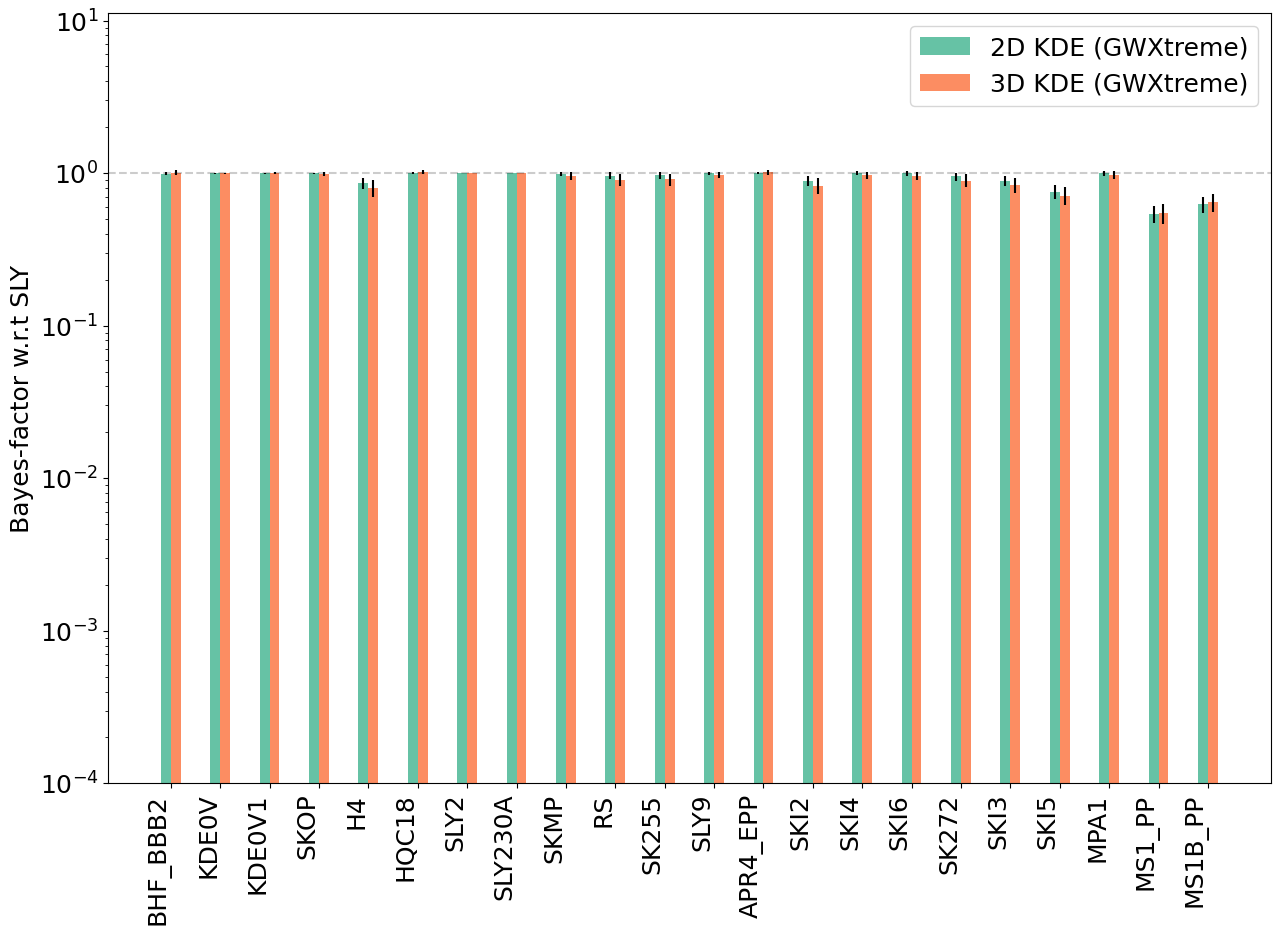
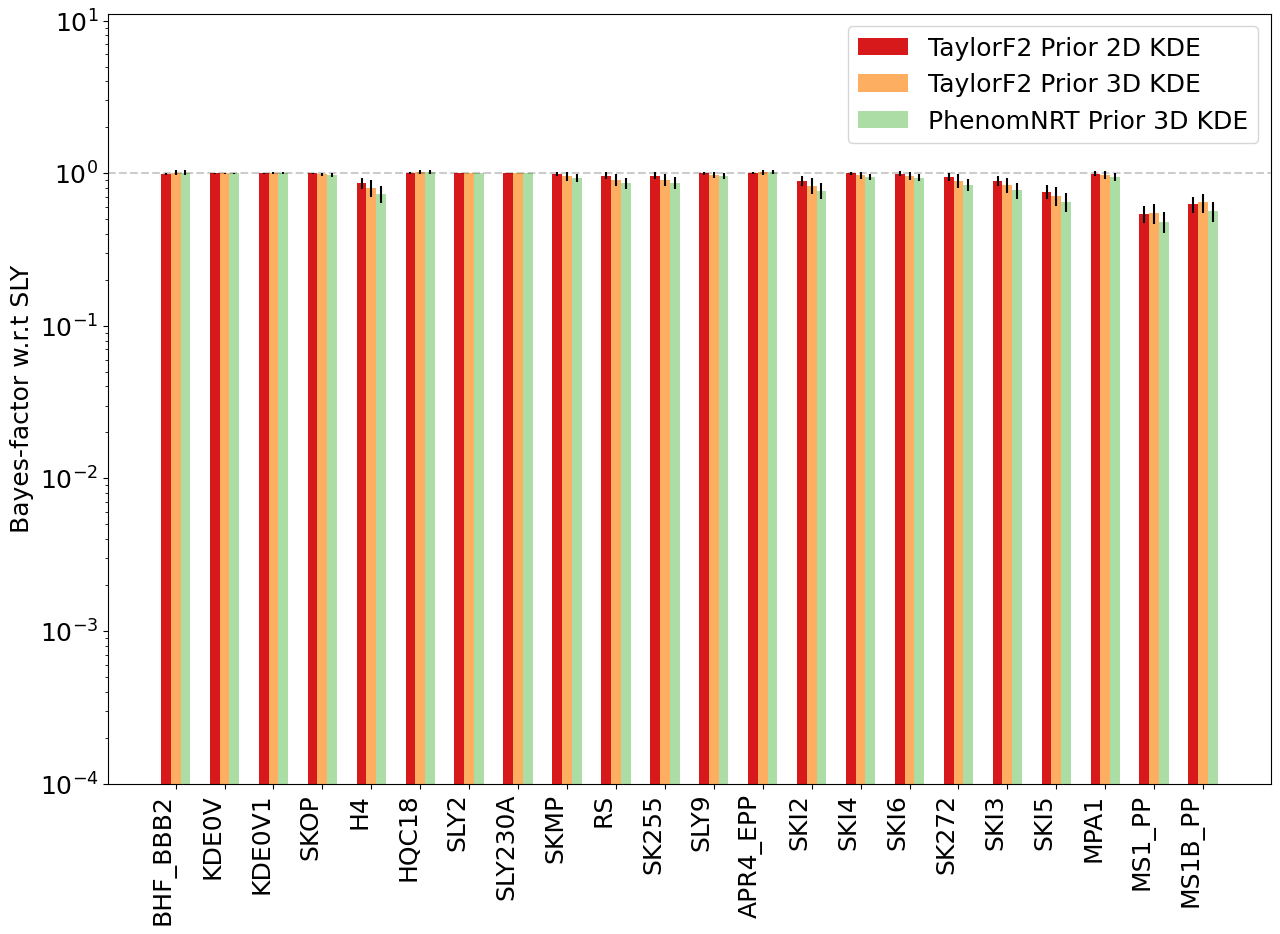
Model selection for simulations is complete.

diff --git a/year3/lastStretch/simulBFs.py b/year3/lastStretch/simulBFs.py
@@ -16,7 +16,6 @@ def singleEventBFs(Trials=1000):
                   "71_1.37_1.33", "55_1.38_1.33", "78_1.35_1.32",
                   "241_1.31_1.28", "220_1.36_1.24", "282_1.35_1.32", "149_1.35_1.23", "237_1.36_1.26", 
                   "138_1.5_1.21", "235_1.4_1.3", "219_1.3_1.28", "260_1.48_1.33", "164_1.34_1.19"]
-    injections = ["282_1.58_1.37"] 
 
     #filenameEnd = "bns_example_result.json"
     filenameEnd = "bns_example_result_simplified.json"
@@ -45,7 +44,6 @@ def singleEventBFs(Trials=1000):
 
         methods = [modsel_uLTs, modsel_uLs,modsel_phenomPhenom]
         eosList = ["BHF_BBB2","KDE0V","KDE0V1","SKOP","H4","HQC18","SLY2","SLY230A","SKMP","RS","SK255","SLY9","APR4_EPP","SKI2","SKI4","SKI6","SK272","SKI3","SKI5","MPA1","MS1_PP","MS1B_PP"]
-        eosList = ["BHF_BBB2","KDE0V"]
         methods_BFs = []
         methods_trials = []
         for method in methods:
@@ -63,10 +61,7 @@ def singleEventBFs(Trials=1000):
         
         output = "plots/data/{}_2D_3D_BFs.json".format(injection)
 
-        # STILL UNTESTED # STILL UNTESTED # STILL UNTESTED # STILL UNTESTED # STILL UNTESTED
-        # If you've already done this run, likely for different waveforms/priors,
-        # it will append the data to the current file under its label.
-        # If same labels are used though, overwriting of that field will occur.
+
         if os.path.isfile(output) == True:
             with open(output,"r") as f:
                 Dictionary = json.load(f)
@@ -92,7 +87,6 @@ def singleEventPlots():
                   "71_1.37_1.33", "55_1.38_1.33", "78_1.35_1.32",
                   "241_1.31_1.28", "220_1.36_1.24", "282_1.35_1.32", "149_1.35_1.23", "237_1.36_1.26", 
                   "138_1.5_1.21", "235_1.4_1.3", "219_1.3_1.28", "260_1.48_1.33", "164_1.34_1.19"]
-    injections = ["282_1.58_1.37"] 
 
     for injection in injections:
 
@@ -103,7 +97,6 @@ def singleEventPlots():
 
         labels = ["TaylorF2 Prior 2D KDE", "TaylorF2 Prior 3D KDE", "PhenomNRT Prior 3D KDE"]
         eosList = ["BHF_BBB2","KDE0V","KDE0V1","SKOP","H4","HQC18","SLY2","SLY230A","SKMP","RS","SK255","SLY9","APR4_EPP","SKI2","SKI4","SKI6","SK272","SKI3","SKI5","MPA1","MS1_PP","MS1B_PP"]
-        eosList = ["BHF_BBB2","KDE0V"]
         colors = ["#d7191c","#fdae61","#abdda4"]
         x_axis = np.arange(len(eosList))
         spacing = [-.20,0.,.20]
@@ -135,25 +128,24 @@ def singleEventPlots():
         plt.legend()
         plt.savefig("plots/{}_barplot_2D_3D_BFs.png".format(injection), bbox_inches="tight")
 
-
-# Still have to adopt above logic for a joint BF plot. Test above first before proceeding.
-def multipleEventBFs():
+def multipleEventBFs(Trials=1000):
 
     uLTs_Dir = "../../year2/bilby_runs/simulations/outdir/1st_Phenom_Taylor/uniformP_LTs/phenom-injections/TaylorF2"
     uLs_Dir = "../../year2/bilby_runs/simulations/outdir/1st_Phenom_Taylor/uniformP_Ls/IMRPhenomPv2_NRTidal/APR4_EPP"
     phenomPhenom_Dir = "../../year2/bilby_runs/simulations/outdir/1st_Phenom_Phenom/IMRPhenomPv2_NRTidal/APR4_EPP"
 
-    ### Stopped here
     uLTs_Files = glob.glob("{}/*/*simplified.json".format(uLTs_Dir)) + glob.glob("{}/troublesome/*/*simplified.json".format(uLTs_Dir))
     uLs_Files = glob.glob("{}/*/*simplified.json".format(uLs_Dir)) + glob.glob("{}/troublesome/*/*simplified.json".format(uLs_Dir))
+    phenomPhenom_Files = glob.glob("{}/*/*simplified.json".format(phenomPhenom_Dir)) + glob.glob("{}/troublesome/*/*simplified.json".format(phenomPhenom_Dir))
 
     stack_uLTs = ems.Stacking(uLTs_Files,kdedim=2)
     stack_uLs = ems.Stacking(uLs_Files,kdedim=3)
+    stack_phenomPhenom = ems.Stacking(phenomPhenom_Files,kdedim=3)
 
-    labels = ["(dL~,L~) Uniform Prior", "(L1,L2) Uniform Prior"]
-    #colors = ["#66c2a5","#fc8d62"] # Colors we used to use
-    colors = ["#1f78b4", "#b2df8a"]
-    stacks = [stack_uLTs, stack_uLs]
+    output = "plots/data/allJoint_2D_3D_BFs.json"
+
+    labels = ["TaylorF2 Prior 2D KDE", "TaylorF2 Prior 3D KDE", "PhenomNRT Prior 3D KDE"]
+    stacks = [stack_uLTs, stack_uLs, stack_phenomPhenom]
     eosList = ["BHF_BBB2","KDE0V","KDE0V1","SKOP","H4","HQC18","SLY2","SLY230A","SKMP","RS","SK255","SLY9","APR4_EPP","SKI2","SKI4","SKI6","SK272","SKI3","SKI5","MPA1","MS1_PP","MS1B_PP"]
     stacks_BFs = []
     stacks_uncerts = []
@@ -163,7 +155,7 @@ def multipleEventBFs():
         uncerts = []
         for eos in eosList:
             print(eos)
-            bf, bf_trials = stack.stack_events(EoS1=eos,EoS2="SLY",trials=100)
+            bf, bf_trials = stack.stack_events(EoS1=eos,EoS2="SLY",trials=Trials)
             #bf = stack.stack_events(EoS1=eos,EoS2="SLY",trials=0)
             uncert = np.std(bf_trials) * 2
             BFs.append(bf)
@@ -171,26 +163,26 @@ def multipleEventBFs():
         stacks_BFs.append(BFs)
         stacks_uncerts.append(uncerts)
 
-    x_axis = np.arange(len(eosList))
-    spacing = [-.075,.075]
-    plt.clf()
-    plt.rcParams.update({'font.size': 18})
-    plt.figure(figsize=(15, 10))
-    for index in range(len(stacks)):
-        #plt.bar(x_axis+spacing[index],stacks_BFs[index],.15,yerr=stacks_uncerts[index],label=labels[index],color=colors[index])
-        plt.bar(x_axis+spacing[index],stacks_BFs[index],.15,label=labels[index],color=colors[index])
 
-        plt.errorbar(x_axis+spacing[index],stacks_BFs[index],yerr=stacks_uncerts[index],ls="none",ecolor="black")
+    #TEST THIS SOON PLEASE BEFORE USING
+    if os.path.isfile(output) == True:
+        with open(output,"r") as f:
+            Dictionary = json.load(f)
 
-    plt.yscale("log")
-    plt.xticks(x_axis,eosList,rotation=45,ha="right")
-    #plt.axhline(1.0,color="k",linestyle="--")
-    plt.ylabel("Bayes-factor w.r.t SLY")
-    plt.legend()
-    plt.savefig("plots/2D_3D/allJoint_barplot_2D_3D_BFs.png",bbox_inches="tight")
+        for Index in range(len(labels)):
+            dictionary = {}
+            for eIndex in range(len(eosList)):
+                dictionary[eosList[eIndex]] = [stacks_BFs[Index][eIndex],stacks_uncerts[Index][eIndex]]
+            Dictionary[labels[Index]] = dictionary
 
-    Dictionary = {labels[Index]:{eosList[eIndex]:[stacks_BFs[Index][eIndex],stacks_uncerts[Index][eIndex]] for eIndex in range(len(eosList))} for Index in range(len(labels))}
-    with open("plots/2D_3D/data/allJoint_2D_3D_BFs.json","w") as f:
-        json.dump(Dictionary, f, indent=2, sort_keys=True)
+        with open(output,"w") as f:
+            json.dump(Dictionary, f, indent=2, sort_keys=True)
 
-### Still need joint BF plotter
+    else: # First time doing this sort of run so new file is made
+
+        Dictionary = {labels[Index]:{eosList[eIndex]:[stacks_BFs[Index][eIndex],stacks_uncerts[Index][eIndex]] for eIndex in range(len(eosList))} for Index in range(len(labels))}
+        with open(output,"w") as f:
+            json.dump(Dictionary, f, indent=2, sort_keys=True)
+
+# For plotting either copy the eventBF script logic over or just use it.
+# Should follow same procedure.

diff --git a/year3/lastStretch/eventBFs.py b/year3/lastStretch/eventBFs.py
@@ -52,6 +52,7 @@ def singleEventBFs(Trials=1000):
     methods_BFs.append(nest_BFs)
     methods_trials.append(nest_stds)
 
+
     # If you've already done this run, likely for different waveforms/priors, 
     # it will append the data to the current file under its label. 
     # If same labels are used though, overwriting of that field will occur.
